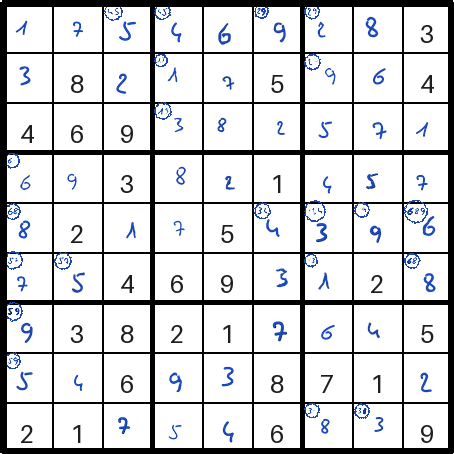
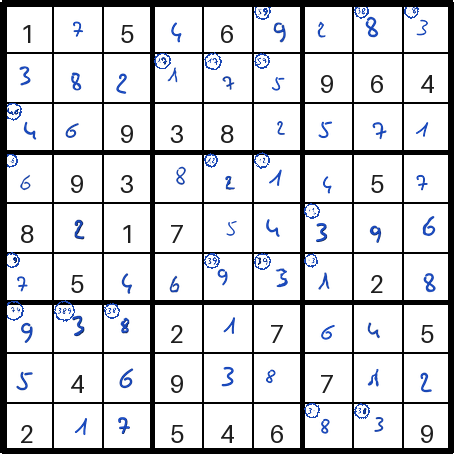
Sudoku board images no longer reveal the label through the printed-digit layout: the starter mask is seeded by a hash of the board, not its digit sum (constant on valid boards); RENDER_VERSION 3, image folders carry it; 0.4.1

diff --git a/tests/test_generators.py b/tests/test_generators.py
@@ -288,7 +288,7 @@ class TestSudokuDatasetGenerator:
         ds = gen.generate()
         folder = ds.inputs[0].parent
         assert folder == gen.config.get_dataset_path(data_type="image")
-        assert folder.name == "sudoku_image_n3_ns10_mc9_px50_seed43"
+        assert folder.name == "sudoku_image_n3_ns10_mc9_px50_seed43_r3"
 
     def test_boards_at_any_cell_size_are_the_50px_board_scaled(self, tmp_path):
         import numpy as np
@@ -329,6 +329,20 @@ class TestSudokuDatasetGenerator:
         assert not np.array_equal(a, b)  # same digits, different strokes
         # the grid and the printed starters are identical, only the handwriting moves
         assert (a != b).mean() < 0.1
+
+    def test_printed_digit_layout_differs_between_valid_boards(self):
+        """Which cells are typeset must not reveal the label: every valid board gets its own layout."""
+        import numpy as np
+        from concept_benchmark.synthetic.sudoku.handwriting import _build_given_mask
+        from concept_benchmark.synthetic.sudoku.utils import generate_valid_board
+
+        rng = np.random.default_rng(11)
+        boards = [generate_valid_board(rng=rng) for _ in range(6)]
+        masks = [_build_given_mask(b, None, 0.35, None, None) for b in boards]
+        assert len({m.tobytes() for m in masks}) == 6
+        assert np.array_equal(
+            masks[0], _build_given_mask(boards[0], None, 0.35, None, None)
+        )
 
     def test_boards_stored_in_meta(self):
         ds = DatasetGenerator(

diff --git a/concept_benchmark/synthetic/sudoku/handwriting.py b/concept_benchmark/synthetic/sudoku/handwriting.py
@@ -13,6 +13,7 @@ def _get_default_font(size):
 import random
 import os
 import glob
+import hashlib
 import math
 from scipy import ndimage
 from scipy.ndimage import gaussian_filter, map_coordinates
@@ -239,11 +240,14 @@ def _build_given_mask(
         return mask
 
     if starters_seed is None:
-        # Derive a deterministic seed from board contents so that
-        # the same board always produces the same starters mask.
-        starters_seed = int(
-            np.sum(board * np.arange(1, board.size + 1).reshape(board.shape)) % (2**31)
-        )
+        # Derive a deterministic seed from the board contents so that the same board always
+        # produces the same starters mask. A hash, not a sum: every row and column of a valid
+        # board sums to 45, so a weighted digit sum is the same number for every valid board,
+        # and the layout would then tell valid boards from invalid ones.
+        digest = hashlib.blake2b(
+            np.ascontiguousarray(board, dtype=np.int64).tobytes(), digest_size=4
+        ).digest()
+        starters_seed = int.from_bytes(digest, "little")
     rng = np.random.default_rng(starters_seed)
 
     if starters_count is not None:

diff --git a/concept_benchmark/config.py b/concept_benchmark/config.py
@@ -999,6 +999,10 @@ class SudokuBenchmarkConfig(_BenchmarkConfigBase):
         """Return the directory path for the dataset."""
         dt = data_type or self.data_type
         filename = f"sudoku_{dt}_n{self.block_size}_ns{self.n_boards}_mc{self.max_cell_swaps}_px{self.cell_px}_seed{self.seed}"
+        if dt == "image":
+            from concept_benchmark.synthetic.sudoku import RENDER_VERSION
+
+            filename += f"_r{RENDER_VERSION}"  # the pictures change with the renderer; the digits do not
         return paths.data_dir / "sudoku" / filename
 
     def get_model_path(self, model_class: str, data_type: str | None = None) -> Path:

diff --git a/concept_benchmark/synthetic/sudoku/__init__.py b/concept_benchmark/synthetic/sudoku/__init__.py
@@ -270,7 +270,8 @@ def histogram_transform(board: np.ndarray) -> np.ndarray:
 
 
 RENDER_VERSION = (
-    2  # 2: boards drawn at 50 px and resampled, handwriting seeded per board (Oct 2026)
+    3  # 2: boards drawn at 50 px and resampled, handwriting seeded per board (Oct 2026);
+    # 3: printed-digit layout seeded by a hash of the board, not its digit sum (Oct 2026)
 )
 _REFERENCE_CELL_PX = (
     50  # boards are drawn at this cell size and resampled to the requested one

diff --git a/CHANGELOG.md b/CHANGELOG.md
@@ -1,5 +1,11 @@
 # Changelog
 
+## 0.4.1 — 2026-10-14
+
+### Fixed
+
+- **Sudoku board images no longer reveal the label through their layout.** The cells drawn in the printed font were chosen with a seed equal to the weighted digit sum of the board, which is the same number for every valid board (each row and column sums to 45), so all valid boards shared one printed/handwritten layout and invalid boards did not; a logistic regression on the layout alone told them apart with 97% accuracy without reading a digit (reported by a user who trained an image model on the Hub dataset). The seed is now a hash of the board, so every board gets its own layout and the same board still gets the same one. Present in the images of every release before 0.4.1. No result in the paper reads pixels: every model is trained on the true digits and evaluated on the digits the recognizer reads cell by cell, so the layout could not reach them. The paper's boards are those of `v0.4.0` (`git checkout v0.4.0`); `RENDER_VERSION` is 3, image dataset folders carry it (`…_seed171_r3`), and the Hub dataset `juliannski/sudoku` was regenerated (the 0.4.0 images remain at revision `e0a31cfb`).
+
 ## 0.4.0 — 2026-10-07
 
 ### Changed

diff --git a/docs/hf/sudoku_card.md b/docs/hf/sudoku_card.md
@@ -25,10 +25,12 @@ Synthetic benchmark for evaluating Concept Bottleneck Models on sudoku validatio
 This dataset is the **exact output** of the [`concept-benchmark`](https://pypi.org/project/concept-benchmark/) Python package, with the train/validation/test split of the paper: 1,000 boards at 50 px per cell (454 x 454 px), each written in its own handwriting, with printed starters and candidate marks.
 
 ```python
-# pip install concept-benchmark==0.4.0
+# pip install concept-benchmark==0.4.1
 from concept_benchmark.sudoku import DatasetGenerator
 dataset = DatasetGenerator(seed=171).generate_splits()
 ```
+
+The images were regenerated with 0.4.1, which gives every board its own layout of printed digits; in the 0.4.0 images (revision `e0a31cfb950230abcc253a545ac260514d1ca2c7`) every valid board shared one layout, so an image model could tell valid from invalid boards without reading a digit. Digits, concepts, labels and splits are the same in both.
 
 📓 **[Quickstart notebook](./quickstart.ipynb)** — load from the Hub and train a model, end-to-end in one notebook.
 

diff --git a/docs/sudoku.md b/docs/sudoku.md
@@ -66,3 +66,5 @@ At 10 px the abstention threshold is fitted on the validation boards; on the tes
 | `--force-setup` | Regenerate the dataset even if one with the same parameters exists |
 
 Run `python scripts/sudoku_pipeline.py --help` for the full list of flags; training parameters (`cs_epochs`, `cs_patience`, `ocr_epochs`, `ocr_patience`, `epochs`, `batch_size`) are set in a YAML config passed with `--config`.
+
+Image datasets are written to `data/sudoku/sudoku_image_…_seed<seed>_r<RENDER_VERSION>`; the suffix changes when the renderer changes (3 since 0.4.1, which gives every board its own layout of printed digits), so boards from different renderers never share a folder. The paper's boards are those of `v0.4.0`.

diff --git a/EXPERIMENTS.md b/EXPERIMENTS.md
@@ -83,7 +83,10 @@ python experiments/real_data.py --out results/paper/real_datasets \
 
 ## Sudoku Benchmark
 
+The paper's boards are those of release `v0.4.0`; 0.4.1 gives every board its own layout of printed digits (see the CHANGELOG), which moves the recognizer's accuracy within its seed-to-seed noise. For a byte-exact rerun, check out the tag first:
+
 ```bash
+git checkout v0.4.0 && uv sync   # the paper's sudoku images; skip for the current renderer
 for px in 50 10; do
     for family in cbm cem probcbm ecbm; do
         python scripts/sudoku_pipeline.py --seed 171 --cell-px $px --cbm-family $family --target-accuracy 0.95
